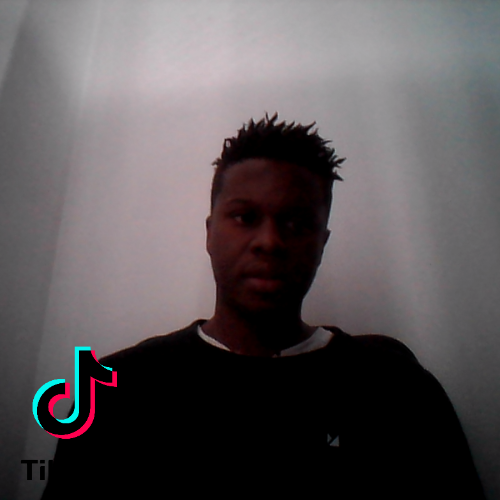
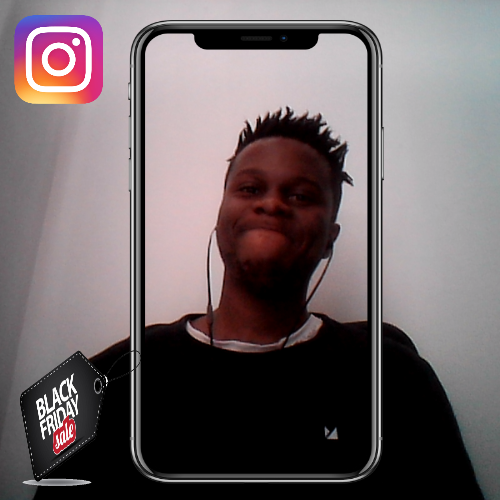
moved buttons vertical

diff --git a/js/snap.js b/js/snap.js
@@ -9,10 +9,12 @@ const insta = document.getElementById('insta');
 const twitter = document.getElementById('twitter');
 const iphone = document.getElementById('iphone');
 const tiktok = document.getElementById('tiktok');
+const pic = null;
 
 var context = canvas.getContext('2d');
 
 open.addEventListener("click", feed);
+//feed();
 snap.addEventListener("click", takeSnap);
 
 friday.addEventListener("click", applyfriday);
@@ -22,8 +24,7 @@ iphone.addEventListener("click", applyiphone);
 tiktok.addEventListener("click", applytiktok);
 
 save.addEventListener("click", saveSnap);
-//feed();
-
+refresh.addEventListener("click", refreshSnap);
 function feed() {
 	var constraints = {video: {width: 500, height: 500}};
 	navigator.mediaDevices.getUserMedia(constraints)
@@ -31,18 +32,14 @@ function feed() {
 }
 
 function takeSnap () {
-	context.drawImage(video, 0, 0, 500, 500);
+	pic = context.drawImage(video, 0, 0, 500, 500);
 }
 
 function applyfriday () {context.drawImage(friday, 0, 340, 150, 150);}
-function applyinsta () {context.drawImage(insta, 0, 340, 150, 150);}
+function applyinsta () {context.drawImage(insta, 10, 10, 100, 100);}
 function applytwitter () {context.drawImage(twitter, 0, 340, 150, 150);}
-function applyiphone () {context.drawImage(iphone, 0, 340, 150, 150);}
+function applyiphone () {context.drawImage(iphone, 80, 20, 350, 480);}
 function applytiktok () {context.drawImage(tiktok, 0, 340, 150, 150);}
-
-
-
-
 
 function saveSnap () {
 	var data = canvas.toDataURL();
@@ -57,4 +54,8 @@ function saveSnap () {
     	}
 	};
 	xhttp.send('key='+data);
+}
+
+function refreshSnap () {
+	context.drawImage(pic, 0, 0, 500, 500);
 }

diff --git a/css/filter.css b/css/filter.css
@@ -11,7 +11,7 @@
 	display: inline-flex;
 }
 #filterbox{
-	width: 300px;
+	width: 100px;
 	height: 500px;
 	background-color: pink;
 	margin: 0 auto;
@@ -24,16 +24,16 @@
 	display: inline-block;
 }
 .sticker{
-margin: 0px 100px;
+	margin: 0 5px;
 	width: 90px;
 	height: 90px;
 	background-color: purple;
 }
 .red-button{
 	width: 80px;
-	height: 80px;
+	height: 80px
 	border-radius: 50px;
-	background-color: maroon;
+	background-color: blue;
 	color: white;
 	border: 0;
 }

diff --git a/ft_snapchat.php b/ft_snapchat.php
@@ -27,8 +27,22 @@ session_start();
 			</div>
 		</div>
 
-			<div id="cambox">
+			<div id="cambox" style="float:left">
 				<video id="video" autoplay></video>
+			</div>
+			<div id="filterbox" style="float: left">
+				<div id="filter">
+					<button id="snap" class="red-button">capture</button>
+				</div>
+				<div id="filter">
+					<button id="open" class="red-button">open</button>
+				</div>
+				<div id="filter">
+					<button id="save" class="red-button">open</button>
+				</div>
+				<div id="filter">
+					<button id="refresh" class="red-button">refresh</button>
+				</div>
 			</div>
 			<div id="cambox" style="float: right">
 				<canvas id="edit" width="500" height="500"></canvas>
@@ -51,9 +65,7 @@ session_start();
 				</div>
 			</div></p>
 			
-			<button id="snap" class="red-button">capture</button>
-			<button id="open" class="red-button">open</button>
-			<button id="save" class="red-button">save</button>
+
 
 		<script src="js/snap.js"></script>
 </body>
